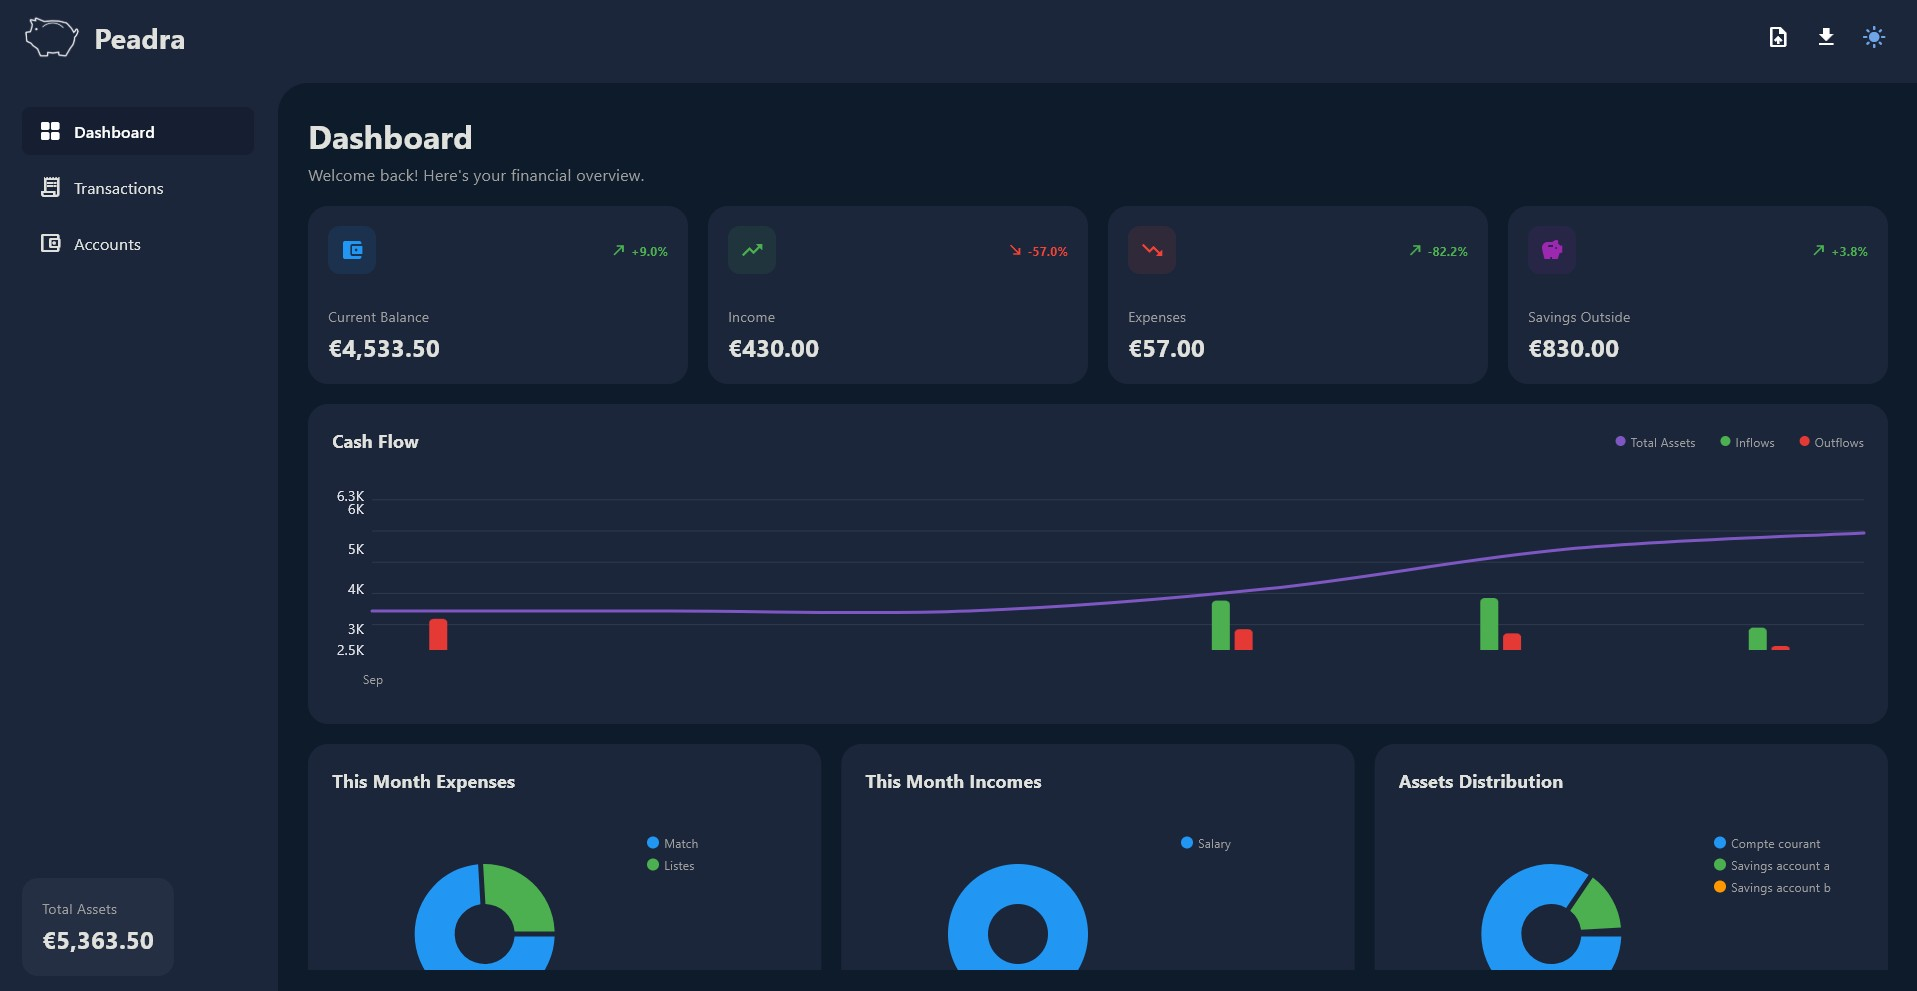
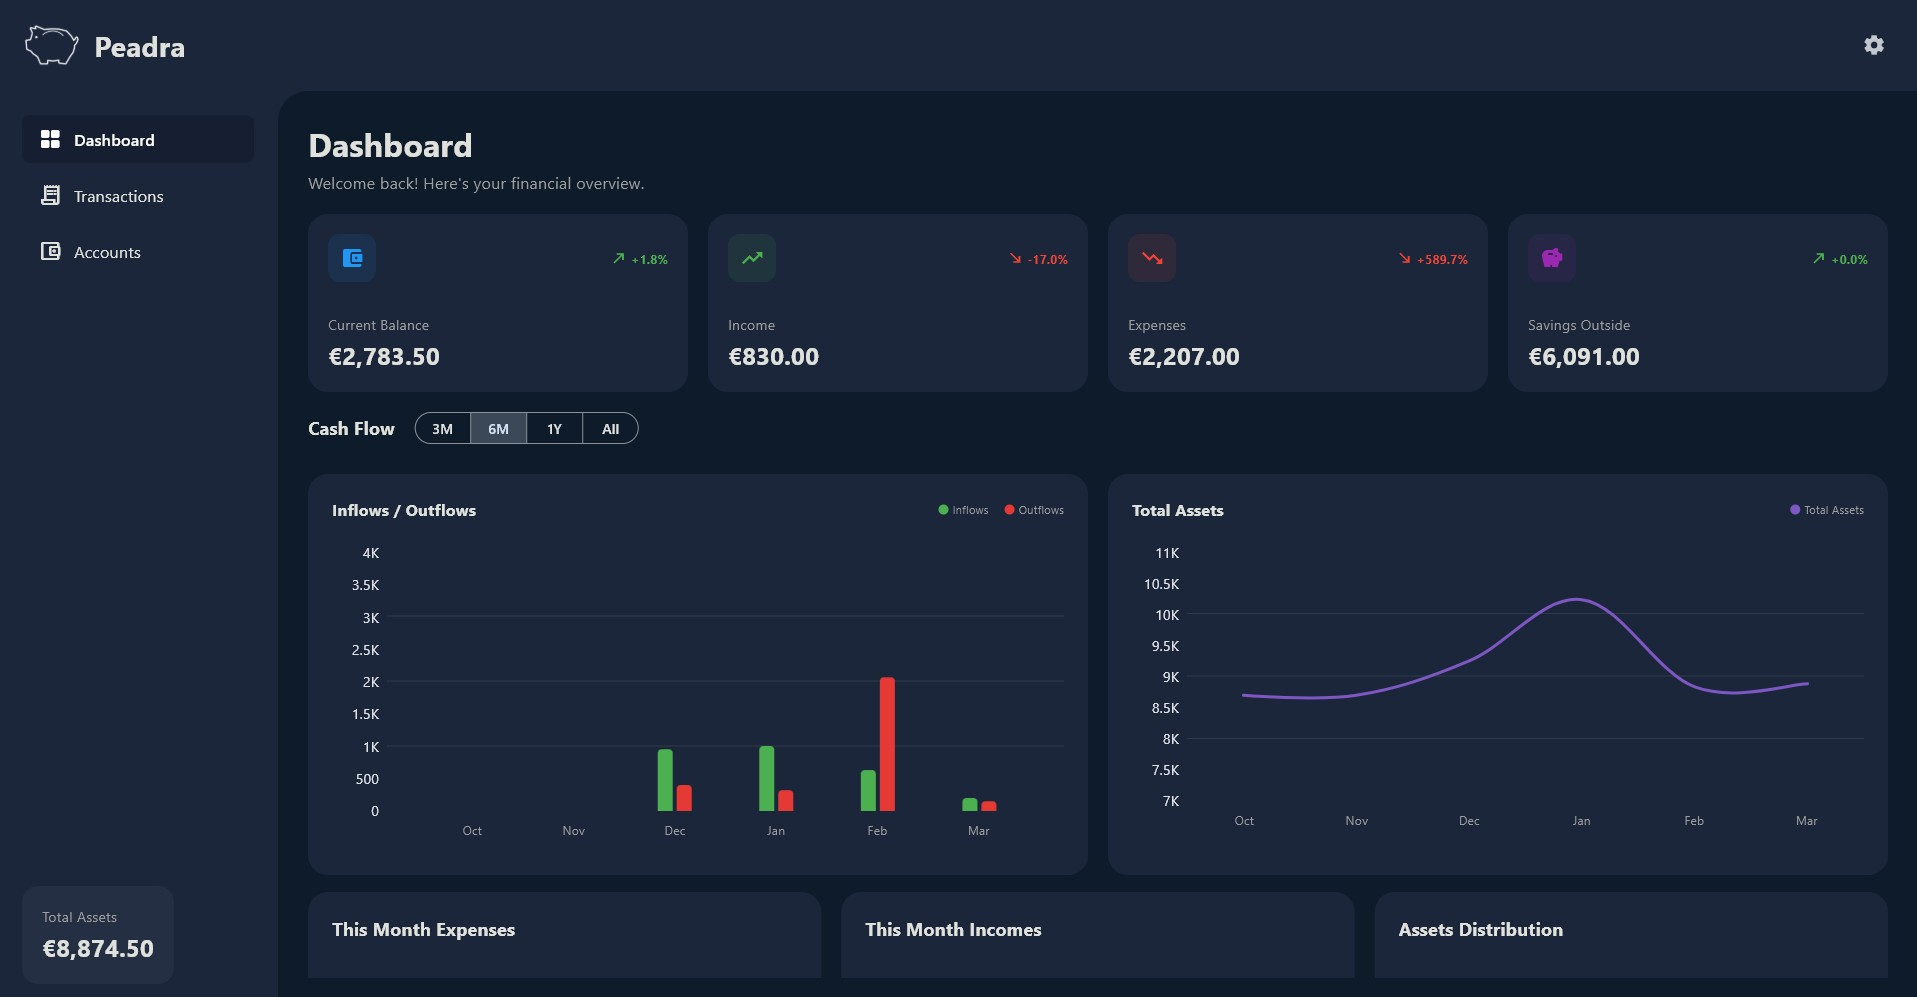
Update Readme and Todo

diff --git a/README.md b/README.md
@@ -4,9 +4,13 @@
 
 ## Screenshots
 
-|                 Dashboard                 |                Transactions page               |
+|                 Dashboard                 |                  Transactions                  |
 | :---------------------------------------: | :--------------------------------------------: |
 | ![Peadra dashboard](assets/Dashboard.jpg) | ![Peadra transaction](assets/transactions.jpg) |
+
+|                  Accounts                 |                   Parameters                   |
+| :---------------------------------------: | :--------------------------------------------: |
+| ![Peadra Accounts](assets/Accounts.jpg)   | ![Peadra Parameters](assets/Parameters.jpg)    |
 
 ## Overview
 
@@ -17,9 +21,15 @@ Peadra (*"wealth" in Breton*) is a desktop application designed to help you trac
 - View your current balance, assets distribution and evolution
 - Add, modify and delete transactions
 - Add, modify and delete your accounts
-- Import data from CSV files
+- Import data from CSV files, export in JSON & CSV
 
->To come : updated graphs, subscriptions view, and more.
+>To come : subscriptions view, and [more](TODO.md)
+
+## Technologies
+
+- UI : **Flet** (*Python library based on Flutter*)
+- Backend : **Python**
+- Database : **SQLite** (*All your data is stored locally, and your the only one having access to it !*)
 
 ## Installation
 
@@ -109,6 +119,7 @@ Peadra/
         ├── accounts.py     # Accounts view
         ├── dashboard.py    # Dashboard view
         ├── import_data.py  # Import data view
+        ├── parameters.py   # Parameters view
         └── transactions.py # Transactions management view
 ```
 

diff --git a/TODO.md b/TODO.md
@@ -7,10 +7,10 @@ This document presents future changes and wanted improvements.
 ## In development
 
 - Exact file importation already made verification (file's hash)
-- Better dashboard & parameters
 
 ## Future Improvements *(by priority)*
 
-- Additional tests on Linux systems (bugs reported)
+- Additional tests on Linux systems (bugs reported), general optimization
+- More parameters
 - Frequent transactions & subscriptions
 - Bank API connection
